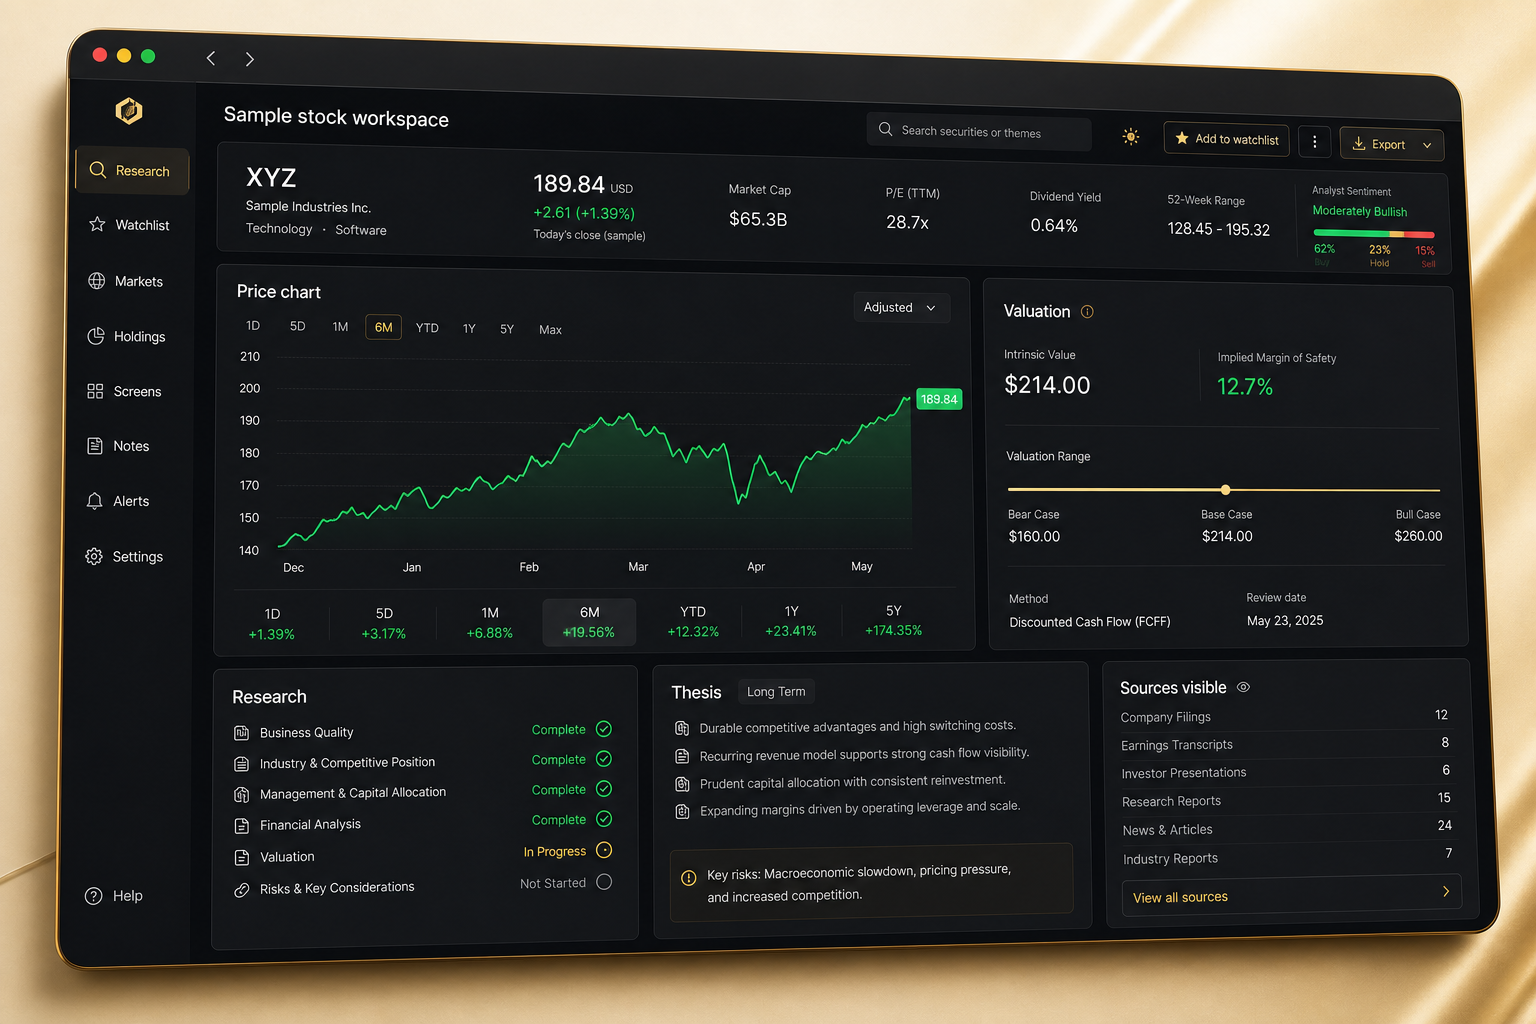
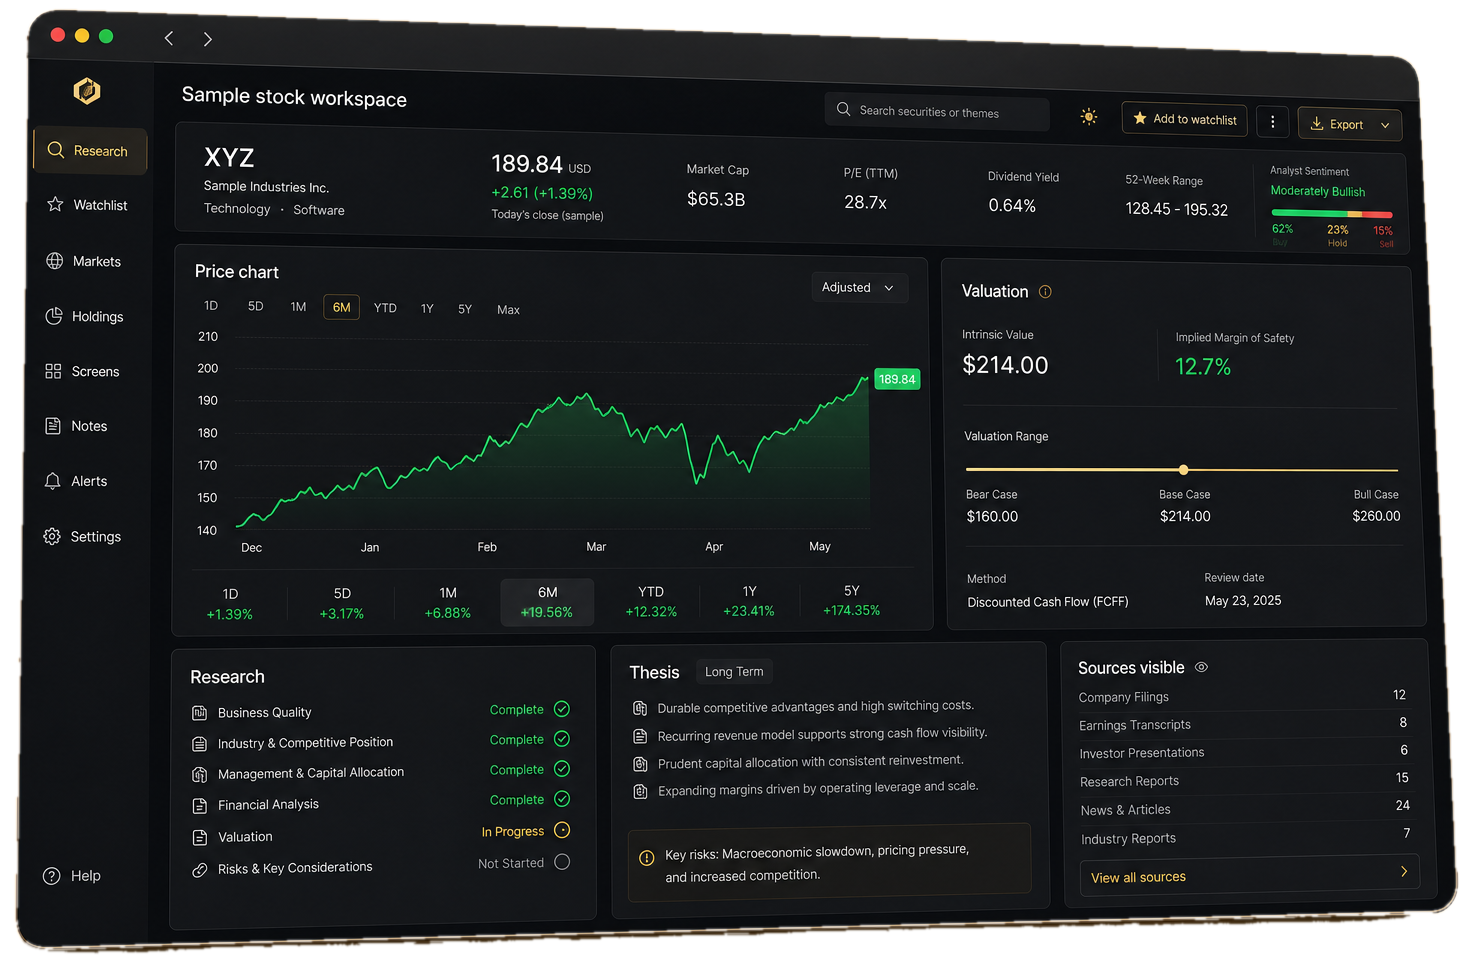
Remove landing text and promo backgrounds

diff --git a/test/chart-contract.test.js b/test/chart-contract.test.js
@@ -11,6 +11,7 @@ const staticCss = fs.readFileSync(path.join(__dirname, "..", "public", "static-p
 const signupHtml = fs.readFileSync(path.join(__dirname, "..", "public", "signup.html"), "utf8");
 const productJs = fs.readFileSync(path.join(__dirname, "..", "public", "product-system.js"), "utf8");
 const productCss = fs.readFileSync(path.join(__dirname, "..", "public", "product-system.css"), "utf8");
+const landingPreviewPng = fs.readFileSync(path.join(__dirname, "..", "public", "landing-product-preview.png"));
 const htmlAndLegacyCss = `${html}\n${legacyCss}`;
 
 test("chart rebuilds keep prices and timestamps on one aligned series", () => {
@@ -207,7 +208,7 @@ test("premium landing visual system matches the generated product preview direct
 });
 
 test("premium visual system is applied across app and static pages", () => {
-  assert.match(html, /legacy-app\.css\?v=20260625-17/);
+  assert.match(html, /legacy-app\.css\?v=20260625-18/);
   assert.match(html, /product-system\.css\?v=20260625-1/);
   assert.match(signupHtml, /static-polish\.css\?v=20260625-2/);
   assert.match(html, /<a class="btn-nav" id="nav-signup" href="\/signup">Claim \$0\.99<\/a>/);
@@ -235,6 +236,9 @@ test("gold ripple image is the default backdrop across landing, market, and tool
   assert.match(legacyCss, /Site-wide ripple backdrop final pass/);
   assert.match(legacyCss, /Literal shared image backdrop/);
   assert.match(legacyCss, /Light-mode polish baseline/);
+  assert.match(legacyCss, /Remove text-card backgrounds/);
+  assert.match(legacyCss, /\.il-landing-copy,[\s\S]*\.il-workflow-copy,[\s\S]*background:transparent!important/);
+  assert.match(legacyCss, /\.il-landing-preview,[\s\S]*\.il-landing-preview\.image-preview,[\s\S]*background:transparent!important/);
   assert.match(legacyCss, /--gold-ripple-bg:url\("\/gold-ripple-background\.jpg\?v=20260625-3"\)/);
   assert.match(legacyCss, /--gold-ripple-overlay:none/);
   assert.match(legacyCss, /body::before\{[\s\S]*background-color:#E2BD6E!important;[\s\S]*background-image:var\(--gold-ripple-bg\)!important/);
@@ -243,6 +247,11 @@ test("gold ripple image is the default backdrop across landing, market, and tool
   assert.match(legacyCss, /background-attachment:fixed!important/);
   assert.match(legacyCss, /background-attachment:scroll!important/);
   assert.match(legacyCss, /backdrop-filter:blur\(20px\) saturate\(1\.08\)!important/);
+});
+
+test("landing promo workspace image has transparency around the product", () => {
+  assert.equal(landingPreviewPng.toString("ascii", 1, 4), "PNG");
+  assert.equal(landingPreviewPng[25], 6, "landing preview PNG should use RGBA color type");
 });
 
 test("tool containers use premium rounded surfaces instead of sharp rectangles", () => {

diff --git a/public/legacy-app.css b/public/legacy-app.css
@@ -4763,3 +4763,70 @@ html[data-theme="dark"] #view-tool .m-sub,
 html[data-theme="dark"] #view-tool .fc-label{
   color:rgba(23,18,11,.68)!important;
 }
+
+/* Remove text-card backgrounds; let copy and promo art sit directly on the gold backdrop. */
+.il-landing-copy,
+.il-workflow-copy,
+.il-landing-social,
+.il-landing-band,
+.il-landing-band>div,
+.il-landing-pricing,
+.il-landing-pricing>div,
+.il-workflow-visual,
+html[data-theme="dark"] .il-landing-copy,
+html[data-theme="dark"] .il-workflow-copy,
+html[data-theme="dark"] .il-landing-social,
+html[data-theme="dark"] .il-landing-band,
+html[data-theme="dark"] .il-landing-band>div,
+html[data-theme="dark"] .il-landing-pricing,
+html[data-theme="dark"] .il-landing-pricing>div,
+html[data-theme="dark"] .il-workflow-visual{
+  background:transparent!important;
+  background-color:transparent!important;
+  background-image:none!important;
+  border-color:transparent!important;
+  box-shadow:none!important;
+  backdrop-filter:none!important;
+  -webkit-backdrop-filter:none!important;
+}
+.il-landing-preview,
+.il-landing-preview.image-preview,
+html[data-theme="dark"] .il-landing-preview,
+html[data-theme="dark"] .il-landing-preview.image-preview{
+  background:transparent!important;
+  background-color:transparent!important;
+  background-image:none!important;
+  border-color:transparent!important;
+  box-shadow:none!important;
+  backdrop-filter:none!important;
+  -webkit-backdrop-filter:none!important;
+  overflow:visible!important;
+}
+.il-landing-preview.image-preview img{
+  background:transparent!important;
+  filter:drop-shadow(0 24px 44px rgba(77,52,14,.24));
+}
+#view-tool .app-section-hdr,
+#view-tool .tool-welcome,
+#view-tool .tool-intro,
+#market-page .home-main,
+#market-page .home-grid,
+#market-page .home-lower,
+#market-page .home-proof,
+#market-page .home-guide-showcase,
+html[data-theme="dark"] #view-tool .app-section-hdr,
+html[data-theme="dark"] #view-tool .tool-welcome,
+html[data-theme="dark"] #view-tool .tool-intro,
+html[data-theme="dark"] #market-page .home-main,
+html[data-theme="dark"] #market-page .home-grid,
+html[data-theme="dark"] #market-page .home-lower,
+html[data-theme="dark"] #market-page .home-proof,
+html[data-theme="dark"] #market-page .home-guide-showcase{
+  background:transparent!important;
+  background-color:transparent!important;
+  background-image:none!important;
+  border-color:transparent!important;
+  box-shadow:none!important;
+  backdrop-filter:none!important;
+  -webkit-backdrop-filter:none!important;
+}

diff --git a/test/smoke.test.js b/test/smoke.test.js
@@ -141,7 +141,7 @@ test("GET / serves the homepage with a successful status", async () => {
   assert.match(html, /id="mbn-workspace"/);
   assert.match(html, /aria-label="Home"/);
   assert.match(html, /viewport-fit=cover/);
-  assert.match(html, /legacy-app\.css\?v=20260625-17/);
+  assert.match(html, /legacy-app\.css\?v=20260625-18/);
   assert.match(legacyCss, /input,select,textarea\{font-size:16px!important\}/);
   assert.match(legacyCss, /#main-nav\[data-view="tool"\] #nav-ticker-bar\{display:none!important\}/);
   assert.match(legacyCss, /\.nav-acct-wrap,\.nav-acct-btn\{min-width:0;max-width:100%\}/);

diff --git a/index.html b/index.html
@@ -96,7 +96,7 @@
 <script defer src="/vendor/hammer.min.js?v=2.0.8"></script>
 <script defer src="/vendor/chartjs-plugin-zoom.min.js?v=2.2.0"></script>
 <script defer src="/model-math.js?v=20260612-1"></script>
-<link href="/legacy-app.css?v=20260625-17" rel="stylesheet">
+<link href="/legacy-app.css?v=20260625-18" rel="stylesheet">
 </head>
 <body>
 <div id="auth-veil"></div>
